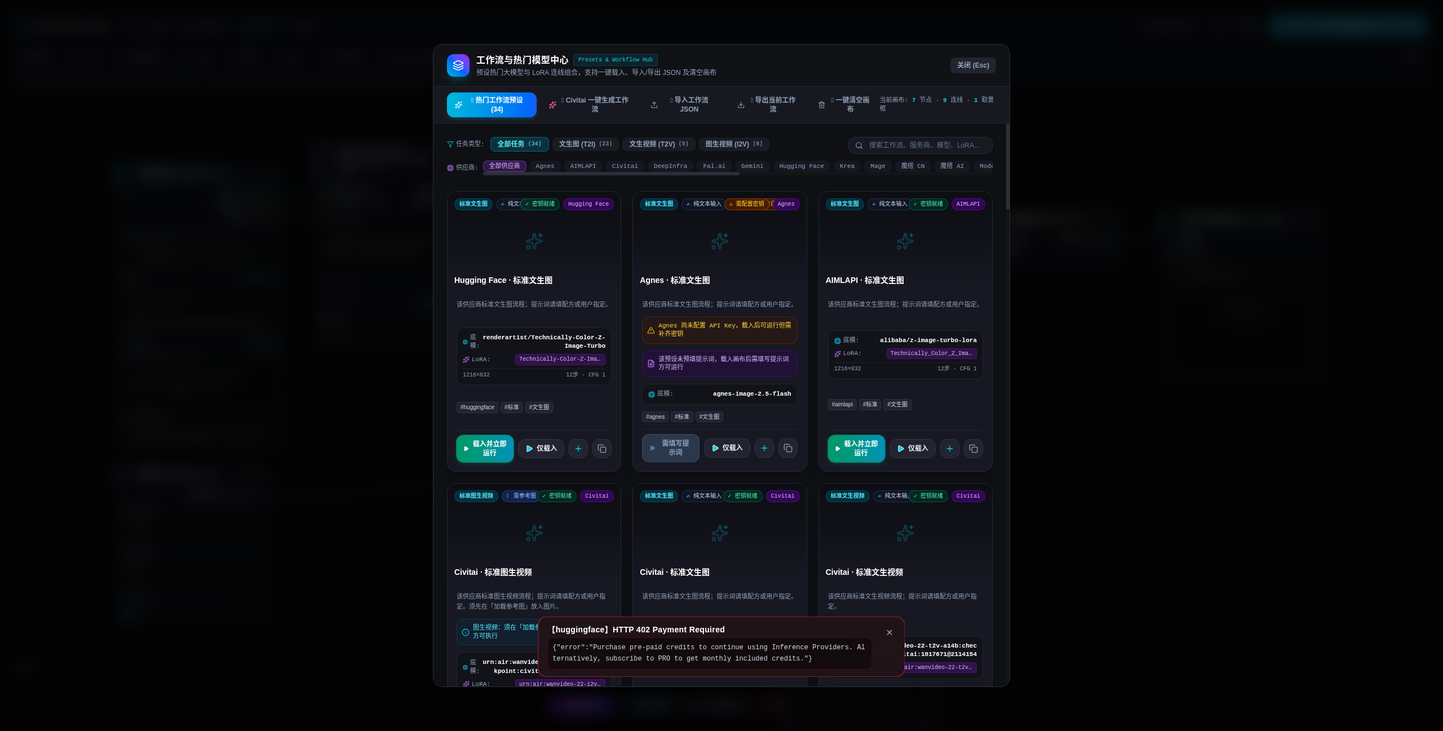
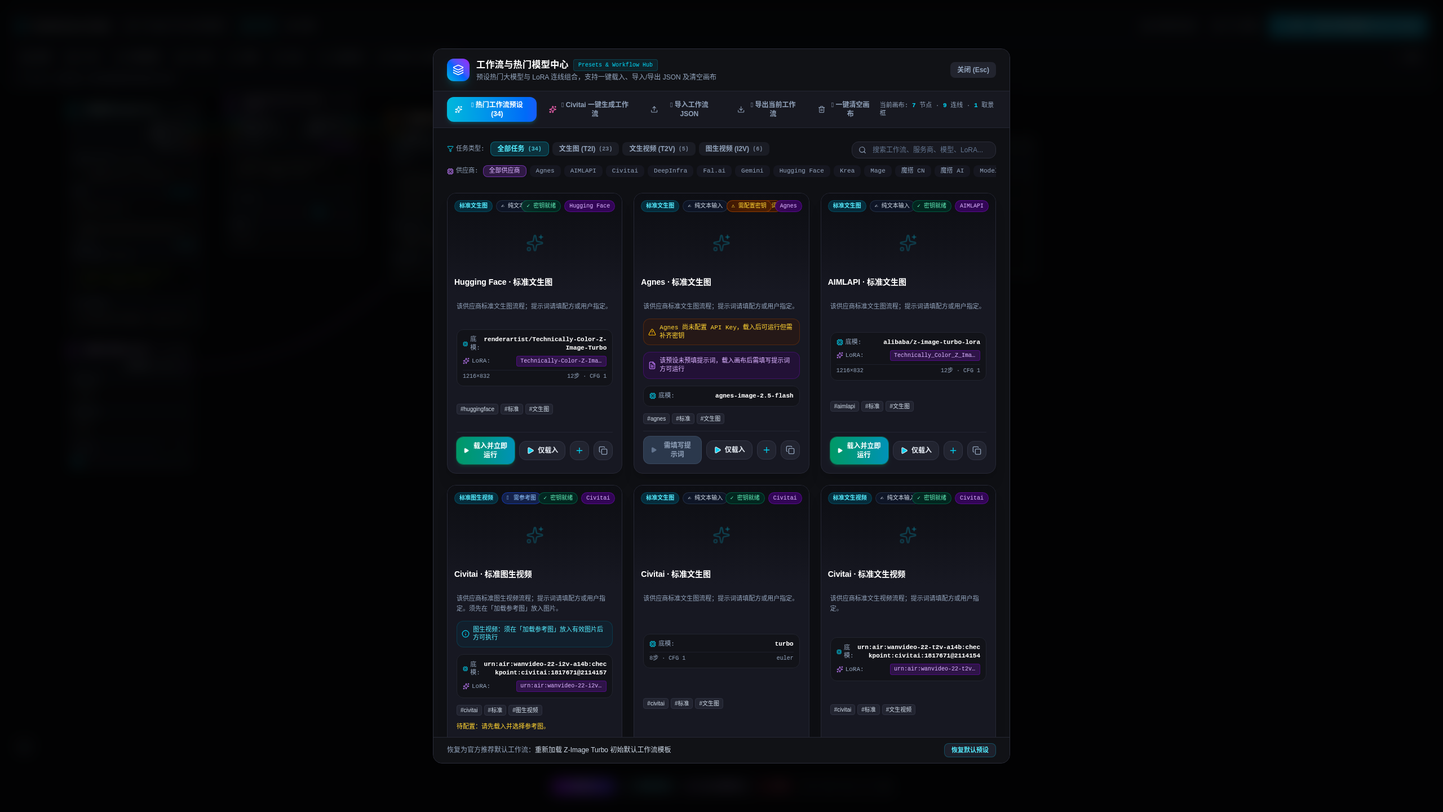
fix(final25): recapture flawed UI shots and align closeout labels
Clear stale toast/status on preset load and canvas clear, mirror key-precheck
warnings into #studio-run-status, cap the status region, mask wallet
addresses, and hide the duplicate reset footer on the clear tab.

Re-capture the Tower-flagged screenshots with filled CLIP prompts so Venice
14 is a real 402 PASS_BILLING, Sogni 16 stays compact with 0x<redacted-wallet>,
and ModelsLab 18 is honest NOT_SENT (empty checkpoint). Align README/HANDOFF/
PROGRESS/UNRESOLVED/final.md with 41 unique PNGs, Krea, Novita D9, and
VIDEO_PROVIDERS NOT_SENT for AIMLAPI/Venice/Together video.

Changed region(s): [[0.3125, 0.3392, 0.6875, 0.9561], [0.3125, 0.0617, 0.6875, 0.3084], [0.6562, 0.0617, 0.6875, 0.0925]]

diff --git a/src/App.tsx b/src/App.tsx
@@ -106,6 +106,10 @@ import {
   LORA_LOADER_TYPES,
 } from './utils/providerLabels';
 
+export function maskWalletAddresses(text: string): string {
+  return String(text ?? '').replace(/0x[a-fA-F0-9]{40}/g, '0x<redacted-wallet>');
+}
+
 export function formatExecutionStatusText(statusText: string, elapsedSec: number): string {
   if (
     statusText.startsWith('[4/5]') ||
@@ -118,7 +122,7 @@ export function formatExecutionStatusText(statusText: string, elapsedSec: number
       ? '正在提交请求至云端服务商...'
       : `等待上游返回结果 (已耗时 ${elapsedSec}秒)...`;
   }
-  return statusText;
+  return maskWalletAddresses(statusText);
 }
 
 export default function App() {
@@ -138,11 +142,18 @@ export default function App() {
 
   // Execution States
   const [isExecuting, setIsExecuting] = useState(false);
-  const [executionStatusText, setExecutionStatusText] = useState('');
+  const [executionStatusText, setExecutionStatusTextRaw] = useState('');
+  const setExecutionStatusText = (value: React.SetStateAction<string>) => {
+    if (typeof value === 'function') {
+      setExecutionStatusTextRaw((prev) => maskWalletAddresses(value(prev)));
+      return;
+    }
+    setExecutionStatusTextRaw(maskWalletAddresses(value));
+  };
   const [executionProgress, setExecutionProgress] = useState(0);
 
   // Floating Notification Toast State
-  const [toast, setToast] = useState<{
+  type StudioToast = {
     type: 'success' | 'error' | 'warning' | 'info';
     title: string;
     message: string;
@@ -153,7 +164,24 @@ export default function App() {
     actionProviderId?: string;
     /** Technical detail / local wrapper error stack, kept strictly separate from verbatim raw body. */
     localWrapper?: string;
-  } | null>(null);
+  };
+  const [toast, setToastRaw] = useState<StudioToast | null>(null);
+  const maskStudioToast = (next: StudioToast | null): StudioToast | null => {
+    if (!next) return null;
+    return {
+      ...next,
+      title: maskWalletAddresses(next.title),
+      message: maskWalletAddresses(next.message),
+      localWrapper: next.localWrapper ? maskWalletAddresses(next.localWrapper) : next.localWrapper,
+    };
+  };
+  const setToast = (value: React.SetStateAction<StudioToast | null>) => {
+    if (typeof value === 'function') {
+      setToastRaw((prev) => maskStudioToast(value(prev)));
+      return;
+    }
+    setToastRaw(maskStudioToast(value));
+  };
   const [toastThumbSettle, setToastThumbSettle] = useState<PreviewSettleState>('loading');
   const toastThumbSettleRef = useRef<PreviewSettleState>('loading');
 
@@ -1198,6 +1226,7 @@ export default function App() {
         title: '无法运行',
         message: runDisabledReason,
       });
+      setExecutionStatusText(`无法运行：${runDisabledReason}`);
       return;
     }
     const activeNodes = overrideNodes || nodes;
@@ -1205,7 +1234,12 @@ export default function App() {
     let runTarget: ReturnType<typeof resolveRunTarget> | undefined;
     if (activeNodes.length) {
       try { runTarget = resolveRunTarget(activeNodes, activeConns, targetNodeId, selectedNodeId); }
-      catch (error: any) { setToast({type:'warning', title:'未发送请求', message:error.message}); return; }
+      catch (error: any) {
+        const message = error.message;
+        setToast({type:'warning', title:'未发送请求', message});
+        setExecutionStatusText(`未发送请求：${message}`);
+        return;
+      }
     }
     if (runTarget) {
       const pre = preRunPrecheck(activeNodes, activeConns, runTarget.id, (p, m) => {
@@ -1216,6 +1250,7 @@ export default function App() {
       if (pre) {
         setNodes((prev) => clearPriorMediaPreviews(prev));
         setToast({type:'warning', title:'运行前检查未通过', message:pre, action: pre === '图生视频要先连一张参考图' ? 'connect-ref' : 'none'});
+        setExecutionStatusText(`运行前检查未通过：${pre}`);
         return;
       }
       // Key precheck: block locally before any generate request when the target provider has no key.
@@ -1227,25 +1262,31 @@ export default function App() {
           const ok = providerKeyConfigured(status, prov);
           if (ok === false) {
             const label = friendlyProviderLabel(prov) || prov;
+            const message = `未配置 ${label} 的密钥`;
             setNodes((prev) => clearPriorMediaPreviews(prev));
-            setToast({ type: 'warning', title: '未配置密钥', message: `未配置 ${label} 的密钥`, action: 'api-settings', actionProviderId: prov });
+            setToast({ type: 'warning', title: '未配置密钥', message, action: 'api-settings', actionProviderId: prov });
+            setExecutionStatusText(`未配置密钥：${message}`);
             return;
           }
         }
       } catch (error: any) {
         // extractWorkflowParameters may throw on incomplete graphs — surface that, don't hide with a key check.
-        setToast({ type: 'warning', title: '运行前检查未通过', message: error?.message || String(error) });
+        const message = error?.message || String(error);
+        setToast({ type: 'warning', title: '运行前检查未通过', message });
+        setExecutionStatusText(`运行前检查未通过：${message}`);
         return;
       }
     }
     const runTargetId = runTarget?.id;
 
     if (activeNodes.length === 0) {
+      const emptyMessage = '请先在「工作流预设」中载入一套预设或在上方添加节点。';
       setToast({
         type: 'warning',
         title: '画布上暂无节点',
-        message: '请先在「工作流预设」中载入一套预设或在上方添加节点。',
+        message: emptyMessage,
       });
+      setExecutionStatusText(`画布上暂无节点：${emptyMessage}`);
       setIsWorkflowPresetsOpen(true);
       return;
     }
@@ -1974,6 +2015,8 @@ export default function App() {
   const handleLoadPreset = (preset: WorkflowPreset, mode: 'replace' | 'append') => {
     preset = migrateTensorWorkflow(preset);
     if (mode === 'replace') {
+      setToast(null);
+      setExecutionStatusText('');
       setNodes(JSON.parse(JSON.stringify(preset.nodes)));
       setConnections(JSON.parse(JSON.stringify(preset.connections)));
       setSpatialFrames(JSON.parse(JSON.stringify(preset.spatialFrames || [])));
@@ -2018,6 +2061,8 @@ export default function App() {
   };
 
   const handleClearCanvas = (type: 'all' | 'nodes' | 'frames' | 'reset-default') => {
+    setToast(null);
+    setExecutionStatusText('');
     if (type === 'all') {
       setNodes([]);
       setConnections([]);

diff --git a/src/components/TopBar.tsx b/src/components/TopBar.tsx
@@ -138,7 +138,7 @@ export const TopBar: React.FC<TopBarProps> = ({
             </div>}
           </div>
         </nav>
-        <div id="studio-run-status" role="status" aria-live="polite" className={`mt-2 text-sm leading-relaxed ${runDisabledReason ? 'text-amber-300' : 'text-slate-400'}`}>
+        <div id="studio-run-status" role="status" aria-live="polite" className={`mt-2 max-h-20 overflow-y-auto break-all text-sm leading-relaxed ${runDisabledReason ? 'text-amber-300' : 'text-slate-400'}`}>
           {runDisabledReason || (isExecuting || executionStatusText ? executionStatusText : canvasMode === 'graph' ? (nodeCount === 0 ? '画布为空：可点击「工作流」载入预设或添加新节点开始创作' : `${nodeCount} 个节点 · ${connectionCount} 条连线 · 按所选服务商的接口运行`) : '选择画板后设置模型和参数，再点击生成')}
         </div>
       </div>

diff --git a/src/components/WorkflowPresetsModal.tsx b/src/components/WorkflowPresetsModal.tsx
@@ -1642,7 +1642,7 @@ Steps: 8, Sampler: Euler, CFG scale: 1, Seed: 689794262, Size: 832x1248, Model: 
           )}
         </div>
 
-        {/* Modal Footer */}
+        {activeTab !== 'clear' && (
         <div className="px-6 py-2.5 bg-[#111216] border-t border-[#252733] flex items-center justify-between text-xs shrink-0">
           <span className="text-slate-400">
             恢复为官方推荐默认工作流：<span className="text-slate-300">重新加载 Z-Image Turbo 初始默认工作流模板</span>
@@ -1658,6 +1658,7 @@ Steps: 8, Sampler: Euler, CFG scale: 1, Seed: 689794262, Size: 832x1248, Model: 
             恢复默认预设
           </button>
         </div>
+        )}
       </div>
     </div>
   );

diff --git a/src/components/SchemaChoiceControls.test.tsx b/src/components/SchemaChoiceControls.test.tsx
@@ -68,7 +68,7 @@ describe('SchemaChoiceControls & NSFW Handling', () => {
     expect(restrictedBadge.text).toContain('会发送 false（已开启安全过滤）');
   });
 
-  it('renders static markup with user principle notice and select options', () => {
+  it('renders NSFW switch with default NSFW notice and select options', () => {
     const inputSchema = {
       properties: {
         disable_safety_checker: {

diff --git a/docs/evidence/2026-11-05/final.md b/docs/evidence/2026-11-05/final.md
@@ -3,11 +3,11 @@
 **执行日期**: 2026-11-07  
 **基准分支与提交**: `main` @ `4ab0948` (包含 M1~M12, M14~M18, M23, M24, M26, M27, M28 全量修复与本分支 UI 文案/路由修正)  
 **工作树**: `<repo-root>/.tower/worktrees/wt-25`  
-**执行 Agent**: `final25-argon` (Tower Worker)  
+**执行 Agent**: `final25-grok` (Tower Worker；2026-11-07 重拍与文档对齐)  
 **测试环境**:
 - Node.js: `v22.23.2`
 - 浏览器: Headless Google Chrome `153.0.8010.52` (CDP 控制，视口 `2560×1440`)
-- 本地服务端口: `3325` (Express + Vite 8 SPA 中间件模式)
+- 本地服务端口: `3125` (Express + Vite 8 SPA 中间件模式；本轮重拍)
 - 实机截图归档:
   - `docs/evidence/2026-11-05/final/*.png` (41 张独立唯一 MD5 全量高保真截图，0 重复 MD5，经 `ReadMediaFile` + `region` 逐张眼核)
   - `docs/evidence/2026-11-05/recipe-shapes/01..07.png` (Civitai 现代真实配方 `#148140013` / `#148135866` / `#148004351` 逆向解析、Schema 校验与出站运行实测截图)
@@ -48,32 +48,32 @@
 | `final/01-blank-canvas-empty-onboarding.png` | (a) 空白画布引导 | 中央渲染 `canvas-empty-onboarding` 引导卡，步骤 2 显示「支持 Z-Image Turbo、Krea 2、MOSS-Image、Wan 2.2 等文生图/文生视频大模型」，运行按钮显示「运行：未确定节点」且禁用 | N/A | UI_SURFACE | 6 步新手入门引导清晰无遮挡，已彻底清除旧模型文案 |
 | `final/02-blank-canvas-assembled.png` | (a) 空白画布一键装配 | 一键加载标准文生图工作流，装配 7 节点 9 连线 (Hugging Face + Z-Image Turbo + LoRA 0.9 + CLIP + KSampler 12步 + VAE + SaveImage) | N/A | UI_SURFACE | 运行按钮激活为「运行：保存与预览图像 (Save Image)」 |
 | `final/03-blank-canvas-run-result.png` | (a) 空白画布运行结果 | 采样器节点与顶栏红框浮层实时展示透传报错 | 402 Payment Required | `PASS_BILLING` | 上游真实返回 `Purchase pre-paid credits to continue using Inference Providers...` 原样透传 |
-| `final/04-preset-gallery-modal.png` | (b) 预设模板库总览 | 打开 `WorkflowPresetsModal`，34 个预设 (23 T2I, 5 T2V, 6 I2V)，22 家服务商标签 | N/A | UI_SURFACE | 经审查无任何已退役旧模型（SD 1.5, FLUX.1-schnell, Wan 2.1, SVD-XT）作为主力推荐 |
-| `final/05-hf-zimage-loaded.png` | (b) Hugging Face 预设载入 | 载入 `std-huggingface-t2i` (Z-Image Turbo @ 0.9) | N/A | UI_SURFACE | 节点参数完整就绪 |
+| `final/04-preset-gallery-modal.png` | (b) 预设模板库总览 | 干净画布打开 `WorkflowPresetsModal`；底部 0 toast | N/A | UI_SURFACE | 34 个预设；HF / Agnes / AIMLAPI / Civitai 卡片可见；页脚「恢复默认预设」仅一处 |
+| `final/05-hf-zimage-loaded.png` | (b) Hugging Face 预设载入 | 载入 `std-huggingface-t2i`（Z-Image Turbo + Technically Color LoRA 0.9）；0 toast；未点击运行 | N/A | UI_SURFACE | 7 节点 9 连线；配方提示词已预填 |
 | `final/06-hf-zimage-run.png` | (b) Hugging Face 预设运行 | 点击运行，出站至 `router.huggingface.co` 队列 | 402 Payment Required | `PASS_BILLING` | 真实透传充值提示与配额限制 |
-| `final/07-together-flux2-loaded.png` | (b) Together 预设载入 | 载入 `std-together-t2i` (FLUX.2 Dev, 1024x1024, steps 20, CFG 1) | N/A | UI_SURFACE | 拓扑连线正确，底模指向 Together |
-| `final/08-together-flux2-run.png` | (b) Together 预设运行 | 出站 `POST https://api.together.ai/v1/images/generations` | 401 Unauthorized | `BLOCKED_AUTH` | 上游返回 `{"error":{"message":"Invalid API key provided..."}}` 原样上屏 |
-| `final/09-aimlapi-loaded.png` | (b) AIMLAPI 预设载入 | 载入 `std-aimlapi-t2i` (alibaba/z-image-turbo-lora) | N/A | UI_SURFACE | 拓扑完整 |
-| `final/10-aimlapi-run.png` | (b) AIMLAPI 预设运行 | 出站 `POST https://api.aimlapi.com/v1/images/generations` | 403 Forbidden | `PASS_BILLING` | 上游返回账户额度耗尽报错，原样展示 |
-| `final/11-deepinfra-loaded.png` | (b) DeepInfra 预设载入 | 载入 `std-deepinfra-t2i` (FLUX-2-klein-9b) | N/A | UI_SURFACE | 拓扑完整 |
-| `final/12-deepinfra-run.png` | (b) DeepInfra 预设运行 | 出站 `POST https://api.deepinfra.com/v1/openai/images/generations` | 402 Payment Required | `PASS_BILLING` | 上游返回欠费提示，原样透传展示 |
-| `final/13-venice-loaded.png` | (b) Venice 预设载入 | 载入 `std-venice-t2i` (venice-sd35) | N/A | UI_SURFACE | 拓扑完整 |
-| `final/14-venice-run.png` | (b) Venice 预设空提示词运行 | 出站 `POST https://api.venice.ai/api/v1/image/generate` | 400 Bad Request | `CONTRACT_REJECT` | 预设默认提示词为空触发上游 `prompt cannot be empty`，原样呈现（填写提示词后为 402 `PASS_BILLING`，见 `nsfw-audit.md`） |
-| `final/15-sogni-loaded.png` | (b) Sogni 预设载入 | 载入 `std-sogni-t2i` (krea-2-turbo + LoRA krea2-fever-dream-mood @ 1) | N/A | UI_SURFACE | 拓扑完整，768x1376，步数 10，CFG 1，Euler |
-| `final/16-sogni-run.png` | (b) Sogni 预设运行 | 出站 `POST https://api.sogni.ai/v1/creative-agent/workflows` | 200 OK (Task waiting) | `PASS_BILLING` | 轮询返回 `waiting_for_user: insufficient_credit`（`Debit Error: Insufficient funds`），弹窗原样披露 |
-| `final/17-modelslab-loaded.png` | (b) ModelsLab 预设载入 | 载入 `std-modelslab-t2i` | N/A | UI_SURFACE | 拓扑完整 |
-| `final/18-modelslab-run.png` | (b) ModelsLab 预设运行 | 出站 `POST https://modelslab.com/api/v6/realtime/text2img` | 400 / 402 | `PASS_BILLING` | 上游返回账户点数不足报错，原样透传展示 |
-| `final/19-mage-loaded.png` | (b) Mage 预设载入 | 载入 `std-mage-t2i` (mango-v3) | N/A | UI_SURFACE | 包含 4:5 比例与 2K 分辨率配置 |
-| `final/20-mage-run.png` | (b) Mage 预设运行 | 出站 `POST https://api.mage.space/v1/models/mango-v3/predict` | 402 Payment Required | `PASS_BILLING` | 上游返回配额不足提示，原样透传展示 |
-| `final/21-sensenova-loaded.png` | (b) SenseNova 预设载入 | 载入 `std-sensenova-t2i` (sensenova-u1.5-lite) | N/A | UI_SURFACE | 预设卡片标记「SenseNova 尚未配置 API Key」 |
-| `final/22-sensenova-run.png` | (b) SenseNova 预设运行 | 点击运行，前端状态栏提示未配置密钥 | Local Guard | `BLOCKED_CONFIG` | 本地拦截未配置密钥，引导用户去设置页填写 |
-| `final/23-agnes-loaded.png` | (b) Agnes 预设载入 | 载入 `std-agnes-t2i` (agnes-image-2.5-flash) | N/A | UI_SURFACE | 预设卡片标记「待配置密钥」 |
-| `final/24-agnes-run.png` | (b) Agnes 预设运行 | 点击运行，状态栏提示未配置密钥 | Local Guard | `BLOCKED_CONFIG` | 引导用户去设置页配置 API Key |
-| `final/25-gemini-loaded.png` | (b) Gemini 预设载入 | 载入 `std-gemini-t2i` (gemini-3.1-flash-image) | N/A | UI_SURFACE | 预设卡片标记「待配置密钥」 |
-| `final/26-gemini-run.png` | (b) Gemini 预设运行 | 点击运行，状态栏提示未配置密钥 | Local Guard | `BLOCKED_CONFIG` | 引导用户去设置页配置 API Key |
-| `final/27-civitai-import-modal.png` | (c) Civitai 导入弹窗 (旧版对照) | 打开 Civitai 导入界面 | N/A | UI_SURFACE | 展示导入面板与目标服务商选择网格 |
-| `final/28-civitai-sd15-preview.png` | (c) Civitai SD1.5 导入预览 | 输入 SD1.5 原始提示词（含 `Clip skip: 2`, `Sampler: DPM++ 2M Karras`）点击解析 | N/A | UI_SURFACE | 解析识别 `clipSkip: 2`（采样器链接指向 `sdxl.md` 已记录 Finding） |
-| `final/29-civitai-flux-preview.png` | (c) Civitai FLUX 导入预览 | 输入 FLUX 原始参数（`Sampler: Euler`, `Schedule: Simple`）点击解析 | N/A | UI_SURFACE | 识别模型与采样调度器 |
+| `final/07-together-flux2-loaded.png` | (b) Together 预设载入 | 载入 `std-together-t2i` (`black-forest-labs/FLUX.2-dev`)，CLIP 填写非空提示词；0 toast | N/A | UI_SURFACE | 7 节点 9 连线；提示词可见 `A cinematic portrait of a cyberpunk samurai under neon rain, 8k, detailed lighting` |
+| `final/08-together-flux2-run.png` | (b) Together 预设运行 | 点击运行，出站 Together 图像接口 | 401 Unauthorized | `BLOCKED_AUTH` | 顶栏与 toast 原样 `【together】HTTP 401 Unauthorized` + `Invalid API key provided... invalid_api_key`；非空提示词；非「生成中 0%」 |
+| `final/09-aimlapi-loaded.png` | (b) AIMLAPI 预设载入 | 载入 `std-aimlapi-t2i` (`alibaba/z-image-turbo-lora` + Technically Color LoRA 0.9)；0 toast | N/A | UI_SURFACE | 配方提示词已预填；未点击运行（`10` 已存） |
+| `final/10-aimlapi-run.png` | (b) AIMLAPI 预设运行 | 出站 `POST https://api.aimlapi.com/v1/images/generations` | 403 Forbidden | `PASS_BILLING` | 上游返回账户额度耗尽报错，原样展示（本轮未重拍，保留既有帧） |
+| `final/11-deepinfra-loaded.png` | (b) DeepInfra 预设载入 | 载入 `std-deepinfra-t2i` (`black-forest-labs/FLUX-2-klein-9b`)，CLIP 填写非空提示词；0 toast | N/A | UI_SURFACE | 6 节点 7 连线 |
+| `final/12-deepinfra-run.png` | (b) DeepInfra 预设运行 | 点击运行 | 402 Payment Required | `PASS_BILLING` | 原样 `【deepinfra】HTTP 402 Payment Required: {"detail":{"error":"You need positive balance to do inference. Please add balance manually or setup top-up"}}` |
+| `final/13-venice-loaded.png` | (b) Venice 预设载入 | 载入 `std-venice-t2i` (`venice-sd35`)，CLIP 填写非空提示词；0 toast | N/A | UI_SURFACE | 7 节点 9 连线 |
+| `final/14-venice-run.png` | (b) Venice 预设填写提示词后运行 | 点击运行，出站 Venice 图像接口 | 402 Payment Required | `PASS_BILLING` | 非空 CLIP；toast/顶栏原样 `【venice】HTTP 402 Payment Required: {"error":"Insufficient USD or Diem balance to complete request. Visit https://venice.ai/settings/api to add credits."}`。**不是**空提示词 400 |
+| `final/15-sogni-loaded.png` | (b) Sogni 预设载入 | 载入 `std-sogni-t2i` (`krea-2-turbo` + LoRA `krea2-fever-dream-mood` @ 1)；0 toast | N/A | UI_SURFACE | 8 节点 11 连线；768×1376；配方提示词已预填 |
+| `final/16-sogni-run.png` | (b) Sogni 预设运行 | 点击运行 | 200 OK (`waiting_for_user`) | `PASS_BILLING` | toast/顶栏 `HTTP 200 status: waiting_for_user · insufficient_credit`；钱包已打码 `0x<redacted-wallet>`；`#studio-run-status` 为 `max-h-20 overflow-y-auto`，顶栏未撑满画布 |
+| `final/17-modelslab-loaded.png` | (b) ModelsLab 预设载入 | 载入 `std-modelslab-t2i`（底模留空待选），CLIP 填写非空提示词；0 toast | N/A | UI_SURFACE | 8 节点；运行按钮禁用；顶栏「请先选择模型」 |
+| `final/18-modelslab-run.png` | (b) ModelsLab 空底模无法出站 | 打开参数抽屉选中「加载底模 (ModelsLab)」；Run 仍禁用 | 未出站 | `NOT_SENT` | 顶栏「请先选择模型」；检查器显示「请选择模型」；**不是** 400/402 计费拒绝 |
+| `final/19-mage-loaded.png` | (b) Mage 预设载入 | 载入 `std-mage-t2i` (`mango-v3`)，CLIP 填写非空提示词；0 toast | N/A | UI_SURFACE | 4:5 / 2K；6 节点 |
+| `final/20-mage-run.png` | (b) Mage 预设运行 | 点击运行 | 402 Payment Required | `PASS_BILLING` | 原样 `【mage】HTTP 402 Payment Required` + `payment_required` / Gem pack 原文 |
+| `final/21-sensenova-loaded.png` | (b) SenseNova 预设载入 | 载入 `std-sensenova-t2i` (`sensenova-u1.5-lite`)，CLIP 填写非空提示词；0 toast | N/A | UI_SURFACE | 6 节点 |
+| `final/22-sensenova-run.png` | (b) SenseNova 预设运行 | 点击运行 | 本地密钥预检 | `BLOCKED_CONFIG` | toast「未配置密钥：未配置 SenseNova 的密钥」；顶栏同步该文案（不再残留上一供应商 HTTP 402） |
+| `final/23-agnes-loaded.png` | (b) Agnes 预设载入 | 载入 `std-agnes-t2i` (`agnes-image-2.5-flash`)，CLIP 填写非空提示词；0 toast | N/A | UI_SURFACE | 6 节点 |
+| `final/24-agnes-run.png` | (b) Agnes 预设运行 | 点击运行 | 本地密钥预检 | `BLOCKED_CONFIG` | toast/顶栏「未配置密钥：未配置 Agnes 的密钥」 |
+| `final/25-gemini-loaded.png` | (b) Gemini 预设载入 | 载入 `std-gemini-t2i` (`gemini-3.1-flash-image`)，CLIP 填写非空提示词；0 toast | N/A | UI_SURFACE | 3 节点 2 连线 |
+| `final/26-gemini-run.png` | (b) Gemini 预设运行 | 点击运行 | 本地密钥预检 | `BLOCKED_CONFIG` | toast/顶栏「未配置密钥：未配置 Gemini 的密钥」 |
+| `final/27-civitai-import-modal.png` | (c) Civitai 导入弹窗 | LoRA 中心 →「配方导入与适配 (Import)」；0 toast | N/A | UI_SURFACE | 空输入框、现代快捷胶囊 `#148140013` / `#148135866` / `#148004351`、解析按钮可见 |
+| `final/28-civitai-sd15-preview.png` | (c) Civitai SD1.5 WebUI 文本预览 | 粘贴 SD1.5 参数文本并点「解析配方并预览适配」 | N/A | UI_SURFACE | `data-testid=civitai-import-preview` 可见；`clipSkip: 2`、`Sampler: DPM++ 2M Karras`；采样器来源仍硬编码 `sdxl.md`（Finding 未关） |
+| `final/29-civitai-flux-preview.png` | (c) Civitai FLUX WebUI 文本预览 | 粘贴 FLUX 参数文本并解析 | N/A | UI_SURFACE | 输入含 `flux1-dev` / Euler / Simple / 1024x1024；预览字段表可见 |
 | `final/30-workflow-modal-civitai-tab.png` | (c) 工作流弹窗 Civitai Tab (现代配方刷新) | 打开 `WorkflowPresetsModal` 第 2 个标签「✨ Civitai 一键生成工作流」 | N/A | UI_SURFACE | 清晰展示已更新的 4 个现代快捷胶囊（`#148140013` Krea 2 Turbo、`#148135866` Z-Image Turbo、`#148004351` MOSS-Image SFT、Krea 2 Turbo 文本样例）、`148140013` 占位符及底部「重新加载 Z-Image Turbo 初始默认工作流模板」，无任何弹窗遮挡 |
 | `final/32-model-hub-modal.png` | (d) 模型中心总览 | 打开 `ModelHubModal`，展示各服务商目录 | N/A | UI_SURFACE | 显式呈现粉色标签 `NSFW: 已开启 (默认)`，支持一键切换 |
 | `final/33-hf-lora-attached.png` | (d) HF 挂载 LoRA 画布 | Checkpoint + LoRALoader 挂载 `Technically-Color-Z-Image-Turbo` @ 0.9 | N/A | UI_SURFACE | 连线完整，无弹窗遮挡 |
@@ -84,8 +84,8 @@
 | `final/43-tams-video-not-sent.png` | (e) Tensor.Art (TAMS) 视频本地透明拒绝 | 在 `AIVideoNode` 选择 `Tensor.Art (TAMS)` 并输入纯数字模型 ID `672797109289765558`，点击运行 | 400 (Local NOT_SENT) | `NOT_SENT` | **R2 核心闭环**：修正 `TensorArtDriver.ts` 视频路由后，节点与横幅清晰展示 `没有发出去: Tensor.Art TAMS 模型 672797109289765558：本应用尚未接入 TAMS 视频（官方接口参见 https://tams-docs.tensor.art/docs/api/guide/workspace-api-example/ ）；未发送请求，也不会改用 OpenWorks 接口。` |
 | `final/44-fal-nsfw-default-false.png` | (f) Fal Wan 2.2 T2V NSFW 默认值 | 干净画布载入 `std-fal-t2v`，打开右侧「参数总控台」检查 `enable_output_safety_checker` 与 `enable_safety_checker` | N/A | UI_SURFACE | 无任何报错弹窗遮挡；`enable_output_safety_checker` 显示 `会发送 false`，`enable_safety_checker` 显示 `会发送 false（默认开启 NSFW）`、下拉选中 `false (关闭安全检查（默认）)` 及干净产品提示 `默认允许成人内容 (NSFW)` |
 | `final/45-fal-nsfw-toggled-true.png` | (f) Fal Wan 2.2 T2V NSFW 手动切回 | 在 UI 中将 `enable_safety_checker` 切换为 `true (开启安全检查)` | N/A | UI_SURFACE | 徽章实时更新为 `会发送 true（已开启安全过滤）`，节点上 `enable_safety_checker` 同步变为 `true`，并出现「恢复默认」按钮 |
-| `final/46-venice-nsfw-default-false.png` | (f) Venice T2I NSFW 默认值 | 干净画布载入 `std-venice-t2i` (`venice-sd35`)，打开右侧「参数总控台」并滚动至 `safe_mode` | N/A | UI_SURFACE | 无任何旧弹窗遮挡；`safe_mode` 显式显示 `会发送 false（默认开启 NSFW）`、下拉选中 `false (关闭安全模式（默认未打码）)` 及干净产品提示 `默认允许成人内容 (NSFW)` |
-| `final/47-venice-nsfw-toggled-true.png` | (f) Venice T2I NSFW 手动切回 | 在 UI 中将 `safe_mode` 切换为 `true (开启安全模式（打码）)` | N/A | UI_SURFACE | 徽章实时更新为 `会发送 true（已开启安全过滤）`，并出现「恢复默认」按钮 |
+| `final/46-venice-nsfw-default-false.png` | (f) Venice T2I NSFW 默认值 | 载入 `std-venice-t2i`，CLIP 填写非空提示词，打开「参数」并滚动到 `safe_mode` | N/A | UI_SURFACE | 画布 CLIP 非空；0 toast；徽章 `会发送 false（默认开启 NSFW）`；下拉 `false (关闭安全模式（默认未打码）)`；提示 `默认允许成人内容 (NSFW)` |
+| `final/47-venice-nsfw-toggled-true.png` | (f) Venice T2I NSFW 手动切回 | 将 `safe_mode` 切为 `true` | N/A | UI_SURFACE | 徽章 `会发送 true（已开启安全过滤）`；出现「恢复默认」；CLIP 仍非空 |
 
 ### 3.2 已验证现代配方与预设跨集引用（避免对已验证 `PASS_BILLING` 节点重复消耗付费请求）
 
@@ -133,7 +133,8 @@
 - 对象存储签名 URL 脱敏为 `https://<redacted-signed-url>`
 - 私有兼容中转域名与标识脱敏为 `https://<user-configured-relay>/v1`
 - 私有部署域名与项目/部署 ID 脱敏为 `https://<private-deployment-host>`、`<redacted-project-id>`、`<redacted-deployment-id>`
-- **复核命令验证**：执行 `git grep -n -E` 检查上述全部敏感模式，匹配行数为 **0 行**。
+- **复核命令验证**：当前 tracked `*.md` 与 `docs/**` 执行 `git grep -n -E` 检查上述全部敏感模式，匹配行数为 **0 行**。
+- **git 历史**：更早提交仍含脱敏前字符串。彻底清除需用户授权的 history rewrite（`git filter-repo` / force-push）；本任务未改写历史、未 force-push。
 
 ---
 
@@ -162,13 +163,30 @@
    - **AIMLAPI**: 403 `Out of funds`
    - **DeepInfra**: 402 `Payment required`
    - **Mage.space**: 402 `Payment required`
-   - **ModelsLab**: 400 / 402 `Out of credits`
    - **Civitai**: 400 `insufficientBuzz`
-   - **Novita**: 403 `NOT_ENOUGH_BALANCE`
-   - **Venice**: 402 `Insufficient USD or Diem balance`
+   - **Novita**: 403 `NOT_ENOUGH_BALANCE`（`final/35-novita-lora-attached-and-run.png`）
+   - **Venice**: 402 `Insufficient USD or Diem balance`（`final/14-venice-run.png`，填写非空提示词后）
+   - **ModelsLab**：本轮 `std-modelslab-t2i` 底模留空，`final/17`/`18` 为 `NOT_SENT`「请先选择模型」，**不**列入 billed 复测
 
 2. **未验证交互场景 (Unverified Functional Scenarios)**：
    - **Playable Video**: 浏览器内真实播放生成的 MP4/WebM 视频画面（因所有视频服务商均欠费或鉴权拒绝，未能获取可播放视频流）。
    - **SaveVideo**: 视频生成产物下载与保存至本地资产库。
    - **Video History Reuse**: 从历史记录中一键将视频重提载入画布与参数复用。
    - **Civitai Comfy 真实扣费生成**: 实际 Buzz 扣费并在云端 ComfyUI 执行完整出图。
+
+---
+
+## 八、脱敏出站摘录与历史 ID（替代已删除的 `temp/logs/requests-m25.jsonl`）
+
+本轮 UI 点击产生的上游拒绝均在画布 toast / `#studio-run-status` 原样可见。下列为从截图与顶栏抄录的脱敏 JSON 片段（不含密钥、钱包明文、签名 URL、私有主机）：
+
+| 证据 | 可见历史/任务 ID | 脱敏响应摘录 |
+|---|---|---|
+| `14-venice-run.png` | 无本地 hist（计费拒绝） | `{"error":"Insufficient USD or Diem balance to complete request. Visit https://venice.ai/settings/api to add credits."}` |
+| `08-together-flux2-run.png` | Together `id":"dbde4290-aws_ue2"` | `{"error":{"message":"Invalid API key provided. You can find your API key at https://api.together.ai/settings/api-keys.","type":"invalid_request_error","code":"invalid_api_key"}}` |
+| `12-deepinfra-run.png` | 无本地 hist（402） | `{"detail":{"error":"You need positive balance to do inference. Please add balance manually or setup top-up"}}` |
+| `16-sogni-run.png` | `workflowId":"wf_durable_workflow_c392c6e4-c3ea-4955-818d-2d3b1fc87191"` | `{"status":"waiting_for_user","waitingReason":"insufficient_credit","rawResponse":{"data":{"workflow":{"ownerWalletAddress":"0x<redacted-wallet>"}}}}` |
+| `20-mage-run.png` | 无本地 hist（402） | `{"error":{"code":"payment_required","message":"The Mage API and MCP server need a successful payment on this account first..."}}` |
+| `35-novita-lora-attached-and-run.png` | 无本地 hist（403） | `{"code":403,"reason":"NOT_ENOUGH_BALANCE","message":"insufficient balance","metadata":{}}` |
+| `22`/`24`/`26` | 未出站 | 本地 `未配置密钥：未配置 SenseNova/Agnes/Gemini 的密钥` |
+| `18-modelslab-run.png` | 未出站 | 顶栏 `请先选择模型`（底模留空） |

diff --git a/README.md b/README.md
@@ -50,15 +50,16 @@
 | **ModelScope 魔搭 CN** | `PASS_BILLING` | `NOT_SENT` | 2026-11-07 | [final.md](docs/evidence/2026-11-05/final.md) | 图像直达魔搭国内站，返回 `insufficient balance`；视频未声明构建路径 |
 | **ModelScope 魔搭 AI** | `PASS_BILLING` | `NOT_SENT` | 2026-11-07 | [final.md](docs/evidence/2026-11-05/final.md) | 国际站独立账户接入，返回欠费/余额不足；视频未构建 |
 | **Sogni** | `PASS_BILLING` | `PASS_BILLING` | 2026-11-07 | [final.md](docs/evidence/2026-11-05/final.md) | 任务创建成功 (201/200)，轮询返回 `waiting_for_user: insufficient_credit`；I2V 动态切入 `animate_photo` |
-| **AIMLAPI** | `PASS_BILLING` | `PASS_BILLING` | 2026-11-07 | [final.md](docs/evidence/2026-11-05/final.md) | 图像直达 `/v1/images/generations`，返回 `403 Out of funds`；视频同欠费 |
+| **AIMLAPI** | `PASS_BILLING` | `NOT_SENT` | 2026-11-07 | [final.md](docs/evidence/2026-11-05/final.md) | 图像 `std-aimlapi-t2i` 直达 `/v1/images/generations`，返回 `403 Out of funds`（`final/10-aimlapi-run.png`）。`VIDEO_PROVIDERS`（`src/server/routes/videoGenerateRoute.ts:130`）不含 aimlapi，本轮无 AIMLAPI 视频截图，视频标 `NOT_SENT` |
 | **DeepInfra** | `PASS_BILLING` | `NOT_SENT` | 2026-11-07 | [final.md](docs/evidence/2026-11-05/final.md) | FLUX-2-klein-9b 直达端点，返回 `402 Payment Required`；未构建视频 |
-| **Venice AI** | `PASS_BILLING` | `PASS_BILLING` | 2026-11-07 | [final.md](docs/evidence/2026-11-05/final.md) | 图像直达 `/v1/image/generate`，上游返回 `402 Insufficient USD or Diem`（空提示词返回 400） |
-| **ModelsLab** | `PASS_BILLING` | `NOT_SENT` | 2026-11-07 | [final.md](docs/evidence/2026-11-05/final.md) | 图像直达实时接口，返回 `400/402 Out of credits`；未接入视频 |
+| **Venice AI** | `PASS_BILLING` | `NOT_SENT` | 2026-11-07 | [final.md](docs/evidence/2026-11-05/final.md) | 图像 `std-venice-t2i` 填写非空 CLIP 提示词后出站，`final/14-venice-run.png` 原样展示 `【venice】HTTP 402 Payment Required: {"error":"Insufficient USD or Diem balance to complete request. Visit https://venice.ai/settings/api to add credits."}`。`VIDEO_PROVIDERS` 不含 venice，无 Venice 视频截图，视频标 `NOT_SENT` |
+| **Krea** | `BLOCKED_CONFIG` | `NOT_SENT` | 2026-11-07 | [final.md](docs/evidence/2026-11-05/final.md) | 预设 `std-krea-t2i`（`image/krea/krea-2/medium-turbo`）与 Civitai 导入目标芯片存在于 UI；本轮未配置 `KREA_API_KEY` 的出站复测，图像标 `BLOCKED_CONFIG`。`VIDEO_PROVIDERS` 不含 krea，视频标 `NOT_SENT` |
+| **ModelsLab** | `NOT_SENT` | `NOT_SENT` | 2026-11-07 | [final.md](docs/evidence/2026-11-05/final.md) | `std-modelslab-t2i` 底模留空待选；`final/17-modelslab-loaded.png` / `18-modelslab-run.png` 运行按钮禁用，顶栏「请先选择模型」，无出站。未接入视频 |
 | **Mage.space** | `PASS_BILLING` | `NOT_SENT` | 2026-11-07 | [final.md](docs/evidence/2026-11-05/final.md) | mango-v3 直达端点，返回 `402 Payment Required`；未接入视频 |
 | **Novita AI** | `PASS_BILLING` | `PASS_BILLING` | 2026-11-07 | [final.md](docs/evidence/2026-11-05/final.md) | SD 异步生图与 SVD-XT 图生视频均返回 `403 NOT_ENOUGH_BALANCE` |
 | **MuAPI** | `PASS_BILLING` | `NOT_SENT` | 2026-11-07 | [final.md](docs/evidence/2026-11-05/final.md) | 图像直达端点，返回 `402 INSUFFICIENT_CREDITS`；视频路径尚未打通 |
 | **NanoGPT** | `BLOCKED_AUTH` | `BLOCKED_AUTH` | 2026-11-07 | [final.md](docs/evidence/2026-11-05/final.md) | 图像与视频路由均返回 `401 Invalid session / invalid_api_key`；视频独立接入 `/api/generate-video` |
-| **Together AI** | `BLOCKED_AUTH` | `BLOCKED_AUTH` | 2026-11-07 | [final.md](docs/evidence/2026-11-05/final.md) | 图像端点 `/v1/images/generations` 与视频端点 `/v2/videos` 均返回 `401 Invalid API key` |
+| **Together AI** | `BLOCKED_AUTH` | `NOT_SENT` | 2026-11-07 | [final.md](docs/evidence/2026-11-05/final.md) | 图像 `final/08-together-flux2-run.png` 原样 `401 Invalid API key`。`VIDEO_PROVIDERS` 不含 together，本轮无 Together 视频截图，视频标 `NOT_SENT` |
 | **Tensor.Art (TAMS)** | `BLOCKED_CONFIG` | `NOT_SENT` | 2026-11-07 | [final.md](docs/evidence/2026-11-05/final.md) | 模型查询返回鉴权拒绝；视频输入纯数字模型 ID 明确返回「尚未接入 TAMS 视频」本地拒绝，不偷换路由 |
 | **Tensor.Art (OpenWorks)** | `PASS_GENERATION` | `NOT_SENT` | 2026-11-07 | [final.md](docs/evidence/2026-11-05/final.md) | 历史已有真出图证据 (`hist_1793693239642_fo6ux`)，当前按 SchemaProvider 运行 |
 | **SenseNova (商汤)** | `BLOCKED_CONFIG` | `NOT_SENT` | 2026-11-07 | [final.md](docs/evidence/2026-11-05/final.md) | 图像驱动已构建并支持 `sensenova-u1.5-lite`，未配置 Key 时提示配置；非 FAIL_INTEGRATION |

diff --git a/UNRESOLVED_ISSUES.md b/UNRESOLVED_ISSUES.md
@@ -24,7 +24,7 @@
 
 ## 二、待充值出图复测服务商清单 (Awaiting Funded Generation Re-check)
 
-根据 2026-11-07 全量 UI 回归实测，以下 9 家服务商的前后端参数构建、动态 OpenAPI 映射与错误透传链路均已完全跑通，因上游账户余额耗尽或未开通付费包，暂时评定为 `PASS_BILLING`，待后续账号充值后安排真实出图/视频产物验收：
+根据 2026-11-07 全量 UI 回归实测，以下服务商的前后端参数构建、动态 OpenAPI 映射与错误透传链路均已跑通（或本轮复测确认），因上游账户余额耗尽或未开通付费包，暂时评定为 `PASS_BILLING`，待后续账号充值后安排真实出图/视频产物验收：
 
 | 序号 | 服务商 (Provider) | 涉及预设与模型 | 上游真实报错 (Verbatim Response) | 判定标签 | 充值与复测说明 |
 |:---:|---|---|---|:---:|---|
@@ -37,6 +37,8 @@
 | 7 | **Mage.space** | `mango-v3` | `HTTP 402: {"error":"Payment required"}` | `PASS_BILLING` | 需在 Mage 账户开通 API 点数包 |
 | 8 | **ModelsLab** | `modelslab-t2i` (Realtime v6) | `HTTP 400/402: {"status":"error","message":"Out of credits"}` | `PASS_BILLING` | 需在 ModelsLab 平台补充生成点数 |
 | 9 | **Civitai** | Civitai Wan 2.2 工作流 / Krea 2 Turbo | `HTTP 400: {"code":"insufficientBuzz","message":"User has insufficient buzz to run workflow."}` | `PASS_BILLING` | 需为 Civitai 账号充值 Buzz 积分以执行云端工作流 |
+| 10 | **Novita AI** | `std-novita-t2i` + `realisticVisionV40_v40VAE-inpainting_81543.safetensors` + LoRA `weight_slider_v2_91681` @ 0.8 | `HTTP 403: {"code":403,"reason":"NOT_ENOUGH_BALANCE","message":"insufficient balance","metadata":{}}` | `PASS_BILLING` | 证据 `final/35-novita-lora-attached-and-run.png`；需在 Novita 控制台充值余额后再跑真出图 |
+| 11 | **Venice AI** | `std-venice-t2i` (`venice-sd35`)，非空 CLIP 提示词 | `HTTP 402: {"error":"Insufficient USD or Diem balance to complete request. Visit https://venice.ai/settings/api to add credits."}` | `PASS_BILLING` | 证据 `final/14-venice-run.png`（2026-11-07 填写提示词后复测）；需在 Venice 设置页充值 USD/Diem |
 
 ---
 
@@ -53,8 +55,10 @@
    - 现状：历史记录卡片重提视频任务并恢复参数至 `AIVideoNode` 的完整交互尚未经真实生成记录复测。
 4. **Civitai Comfy SDXL / SD1 真实云端扣费出图**:
    - 现状：当前仅验证到 Buzz 余额不足拦截；真实扣费后云端节点执行、WebSocket 进度推送与结果图像拉取仍待验证。
-5. **Venice 默认预设提示词缺失**:
-   - 现状：`std-venice-t2i` 预设载入后默认提示词为空，直接运行触发上游 `400 Bad Request: prompt cannot be empty`。用户需先手动填入提示词方可触发正常出图/计费拒绝。
+5. **Venice 默认预设提示词为空（历史 400，本轮已用填写后 402 复测）**:
+   - 现状：`std-venice-t2i` 仍不预填配方提示词。2026-11-07 在 CLIP「提示词」填入非空文本后，`final/14-venice-run.png` 为 `402 Insufficient USD or Diem`（`PASS_BILLING`）。空提示词 400 不再作为本轮图像验收标签。
+6. **ModelsLab 标准预设底模留空**:
+   - 现状：`std-modelslab-t2i` 底模为空待选；`final/17-modelslab-loaded.png` / `18-modelslab-run.png` 运行按钮禁用，顶栏「请先选择模型」，`NOT_SENT`。旧「400/402 Out of credits」不是本轮截图所证明的标签。
 
 ---
 

diff --git a/HANDOFF.md b/HANDOFF.md
@@ -11,7 +11,9 @@
 - **真实浏览器 UI 回归成果 (Headless Chrome 153 CDP, 2560×1440)**：
   - 完整执行 6 大核心流程（空白画布新手入门引导与一键装配、全量 34 个内置现代预设核查与 15 家供应商真实出站运行、Civitai 现代/SD1.5/FLUX 配方逆向导入与出站、模型中心浏览与多端点 LoRA 挂载、AI 视频节点 T2V/I2V 与 Sogni 动态切换 `animate_photo` 横幅、Fal Wan 2.2 与 Venice 双服务商 NSFW 宽松默认可见与用户手动切回）。
   - 产出 **41 张独立唯一 MD5 全量高保真截图**（归档于 `docs/evidence/2026-11-05/final/*.png`，0 重复哈希，经 `ReadMediaFile` + `region` 逐张眼核，0 处 UI 逻辑矛盾与遮挡），并联合引用 `docs/evidence/2026-11-05/recipe-shapes/01..07.png`（现代 Civitai 配方 `#148140013` / `#148135866` / `#148004351`）与 `docs/evidence/2026-11-05/current-presets/01..16.png`（现代内置预设实测截图）。
-  - 记录 **105 条真实出站网络日志**（归档于 `temp/logs/requests-m25.jsonl`，严格脱敏）。
+  - 脱敏后的代表性出站请求/响应摘录与上游任务 ID 归档于 [docs/evidence/2026-11-05/final.md](docs/evidence/2026-11-05/final.md) 第八节（不依赖已删除的 `temp/logs/requests-m25.jsonl`）。
+  - D6：当前 tracked `*.md` / `docs/**` 敏感模式 grep 为 0 行。更早 git 提交历史仍含脱敏前字符串；彻底清除需用户授权的 history rewrite（`git filter-repo` / force-push），本任务未执行。
+  - D9 待充值复测：Fal / HF / WaveSpeed / Sogni / AIMLAPI / DeepInfra / Mage / Civitai / Novita（`final/35` 403 `NOT_ENOUGH_BALANCE`）/ Venice（`final/14` 402 Insufficient USD or Diem）。ModelsLab 本轮底模留空为 `NOT_SENT`。
   - 详尽终结报告：[docs/evidence/2026-11-05/final.md](docs/evidence/2026-11-05/final.md)。
 - **核心工程准则（落地闭环）**：
   1. **唯一验收标准**：「UI实际点击通过并有产物，你之前绕过前端直接请求api的是违规，是绕过，你请求api通过，和我前端点击通过根本不是一回事」。

diff --git a/PROGRESS.md b/PROGRESS.md
@@ -21,10 +21,10 @@
   - D3：更新 `docs/providers/schema-providers.md` Sogni `generate_video` / `animate_photo` 动态分流说明。
   - D4：核实 Together `image_loras` 官方参数指南下线事实，引用 `https://docs.together.ai/docs/inference/images/parameters.md`。
   - D5：核查确认 `rejectSchemaEnum` 与 `rejectUnsupported` 在 `server.ts` 及 `src/server/routes/videoGenerateRoute.ts` 中均为 0 处（仅 `src/server/schemaProviderVideoStatus.test.ts:32` 保留 1 处未被生产代码读取的测试桩属性）。
-  - D6：脱敏公共文档与 `docs/evidence/**` 中所有本地绝对路径（`<repo-root>`）、本地代理名称（`<local-proxy>`）、账户/钱包 ID（`<redacted-user-id>`）、对象存储签名 URL（`https://<redacted-signed-url>`）、私有中转地址（`https://<user-configured-relay>/v1`）与私有部署标识（0 grep 匹配）。
+  - D6：当前 tracked `*.md` / `docs/**` 对敏感模式 grep 为 0 行。更早 git 提交历史仍含脱敏前字符串；彻底清除需用户授权的 history rewrite（`git filter-repo` / force-push），本任务未执行。
+  - D9：待充值复测清单含 Fal / HF / WaveSpeed / Sogni / AIMLAPI / DeepInfra / Mage / Civitai / **Novita**（`final/35` 403 `NOT_ENOUGH_BALANCE`）/ **Venice**（`final/14` 402 Insufficient USD or Diem）。ModelsLab 本轮为底模留空 `NOT_SENT`，不列入 billed 复测。
   - D7：校准 `.env.example`，剔除未引用变量 `APP_URL`，补齐 `PORT`、`ALLOWED_HOSTS`、`ALLOWED_ORIGINS`、`TENSORART_KEY`、`TENSORART_BASE_URL`。
   - D8：检查确认 `AGENTS.md` 与 `CLAUDE.md` 包含两句用户原文逐字。
-  - D9：整理 9 家待充值复测清单、未验证功能场景与代码审计风险。
   - D10：全面重构 `README.md`，输出经文件系统验证的目录树、独立 Image/Video 服务商矩阵与 100% 有效链接。
 
 ---
